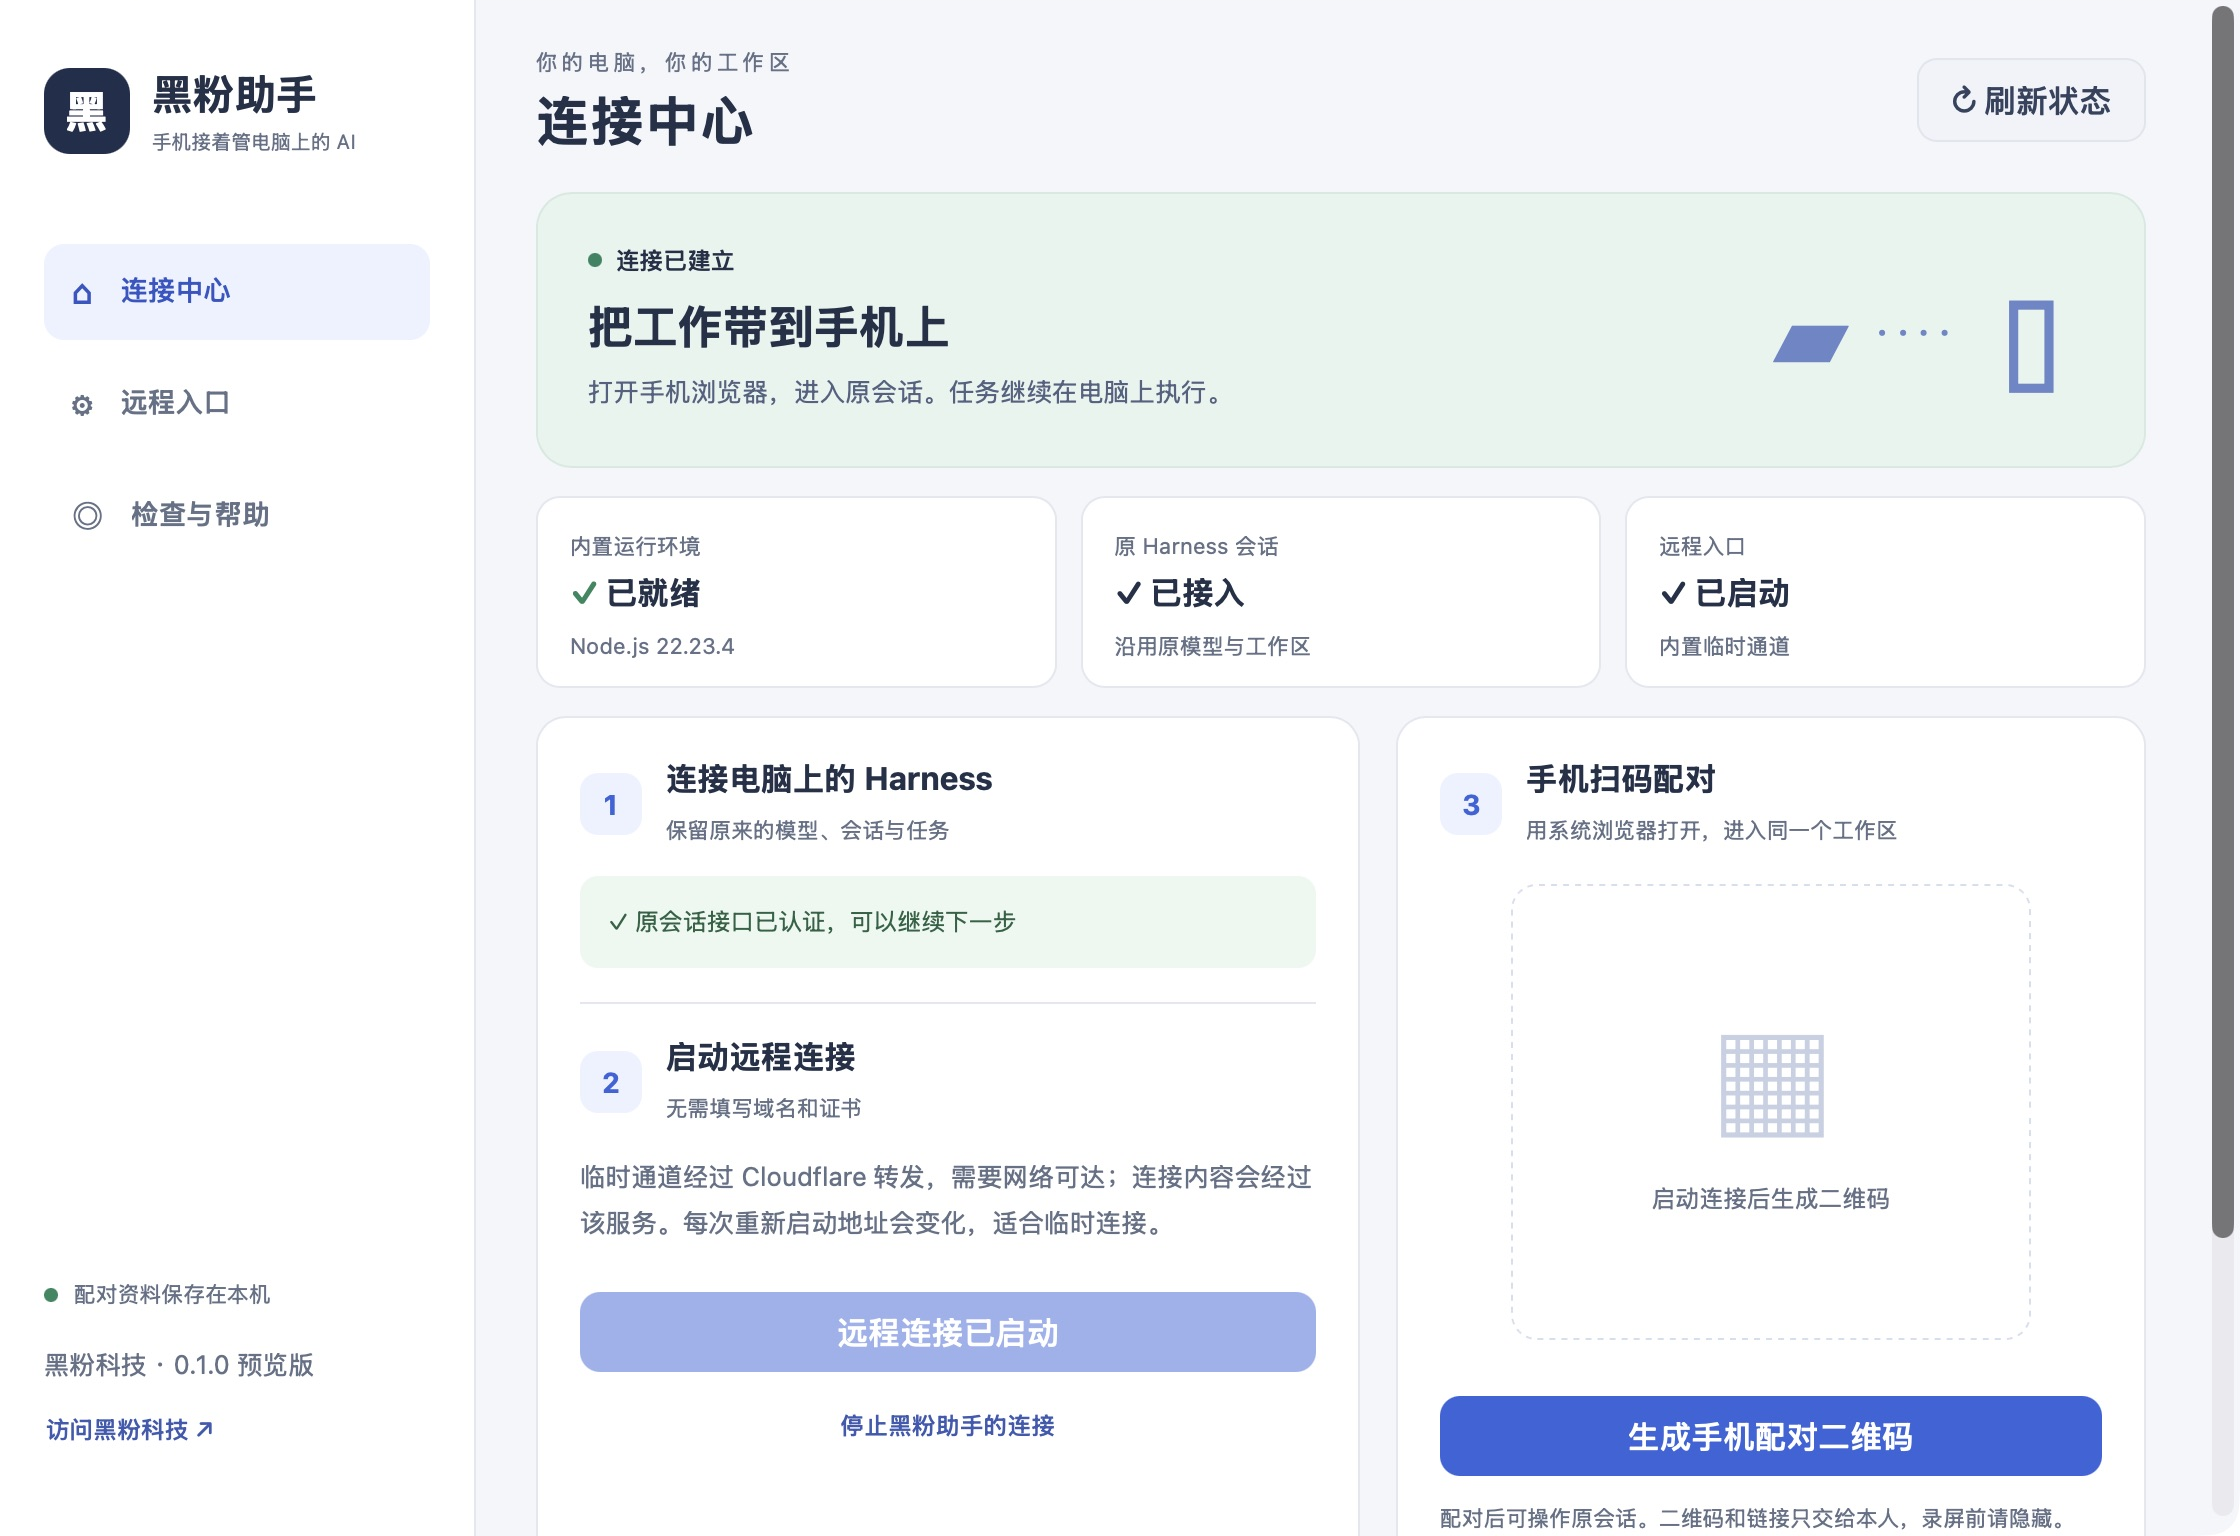
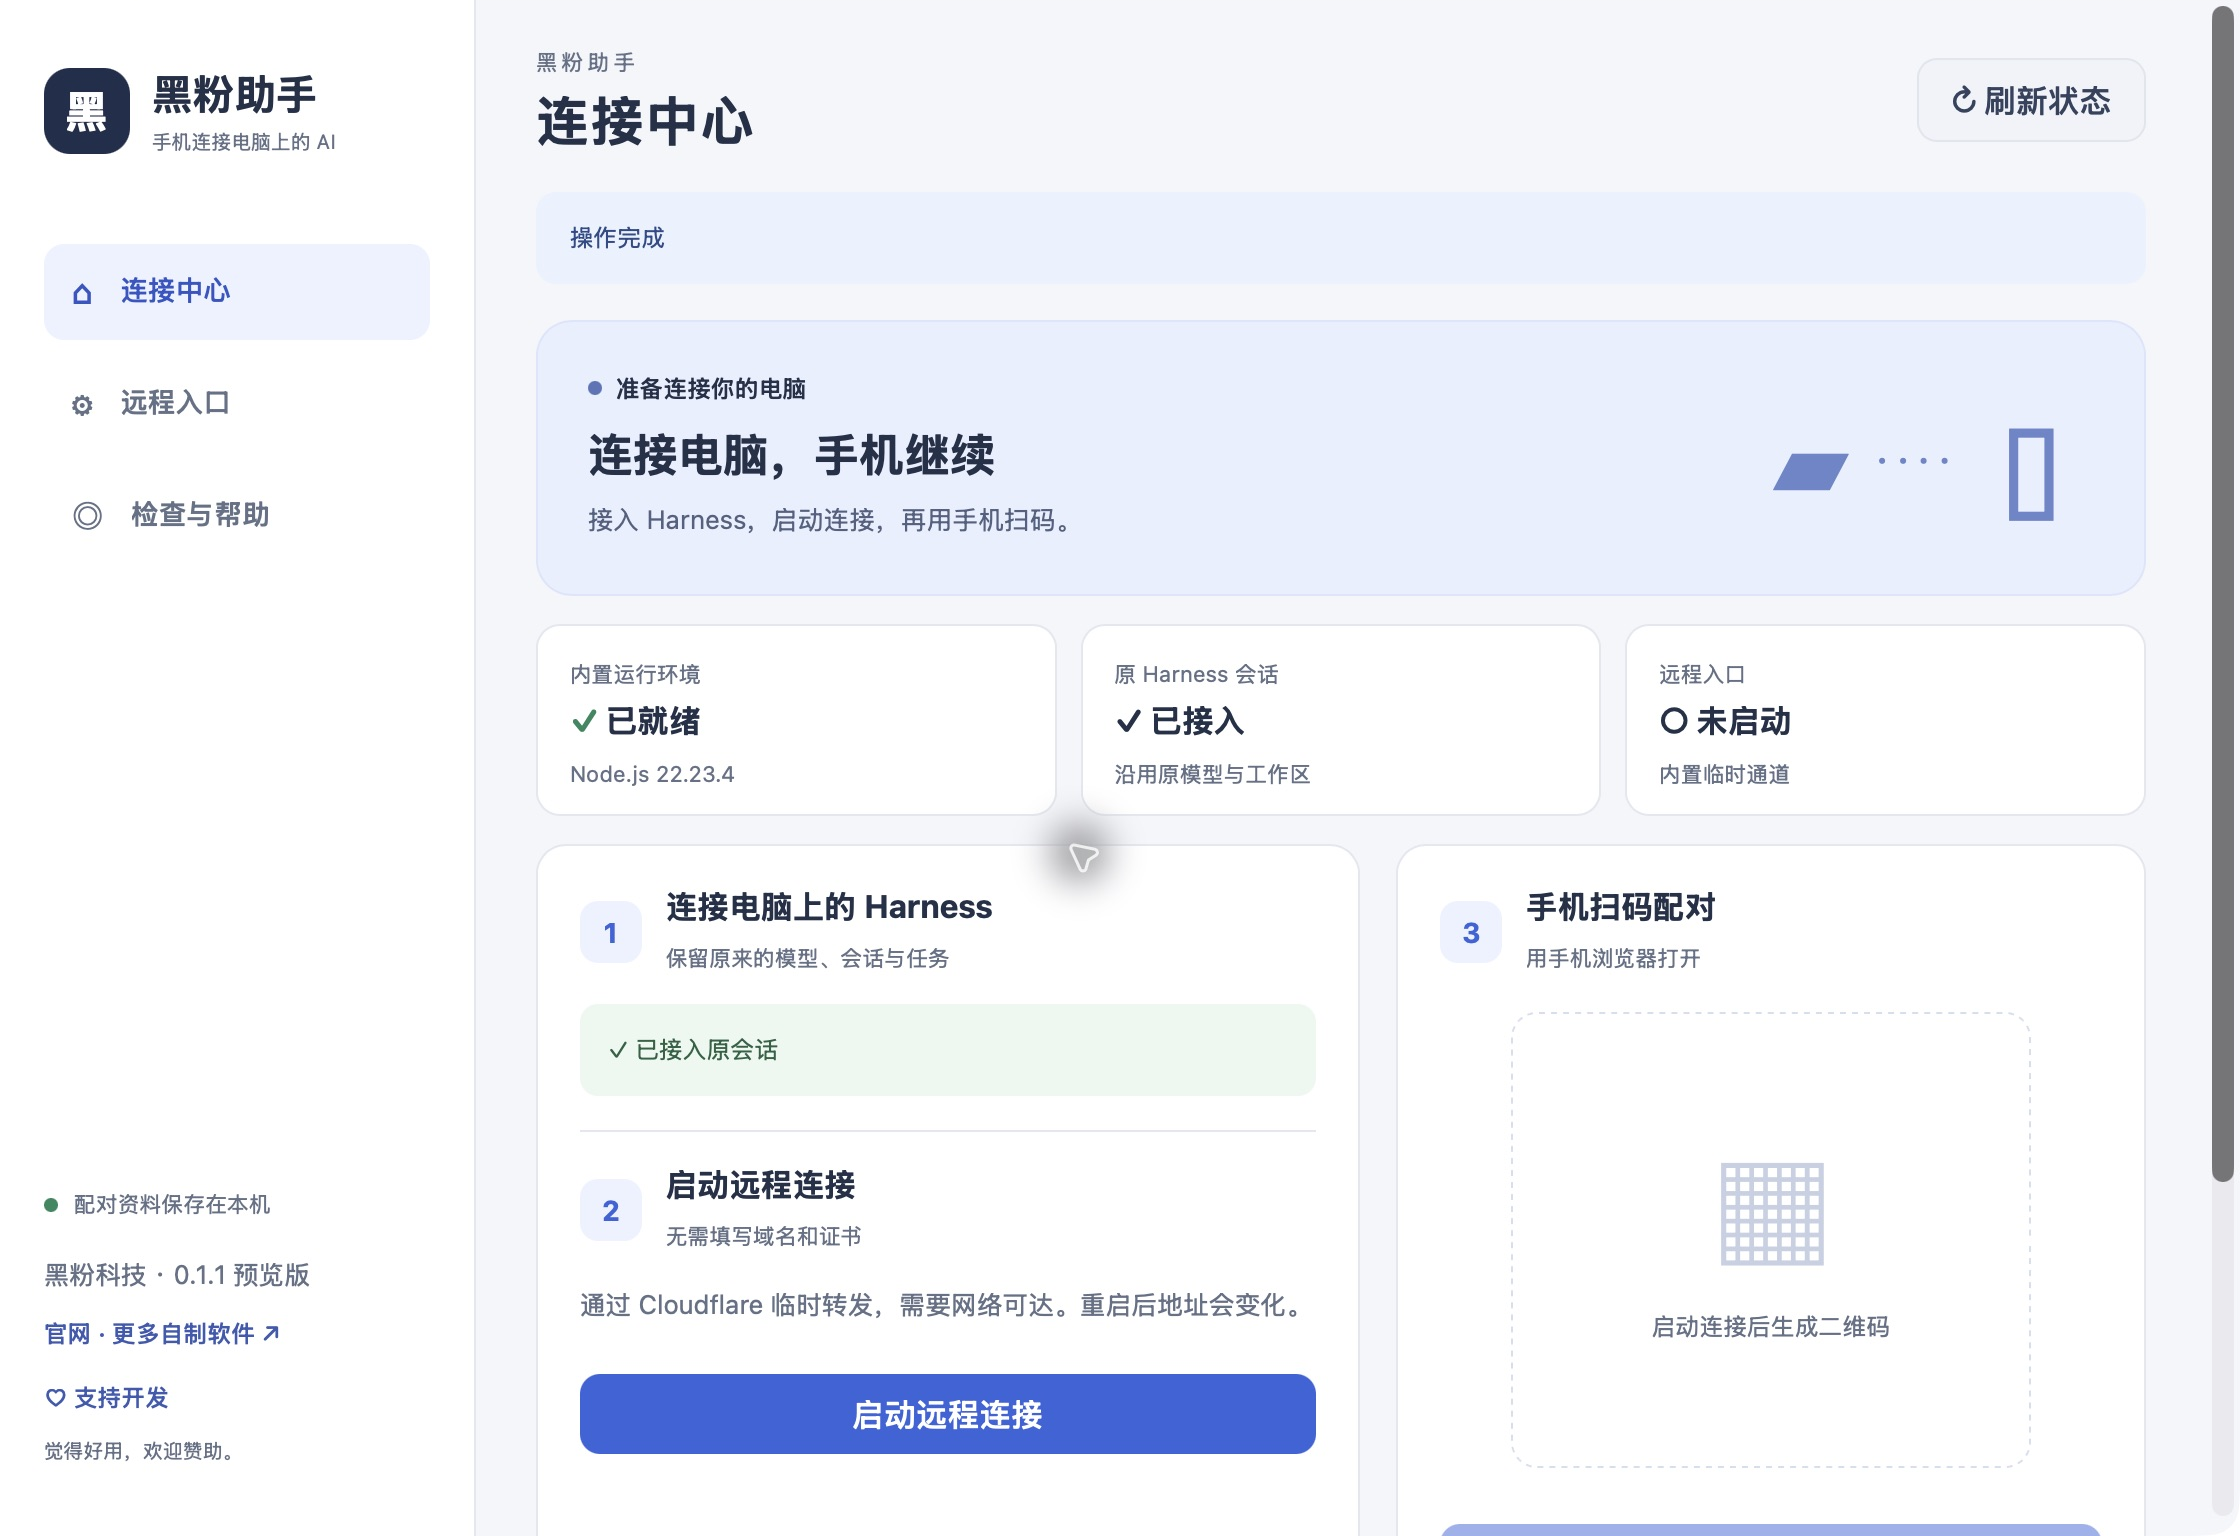
更新0.1.1界面、匿名统计说明和使用截图

diff --git a/README.md b/README.md
@@ -1,16 +1,16 @@
 # 黑粉助手
 
-**手机接着管电脑上的 AI。** 电脑运行 DeepSeek Harness 原任务，手机浏览器进入同一工作区，查看会话并继续发送要求。
+**手机连接电脑上的 AI。** 电脑运行 DeepSeek Harness 原任务，手机浏览器进入同一工作区，查看会话并继续发送要求。
 
-黑粉科技制作的独立辅助工具，当前为 **0.1.0 预览版**。官方 Harness 是被连接的目标软件，需要先在电脑上安装、配置好模型并能正常使用。黑粉助手内置自己的运行依赖，无需另外安装 Node.js、通道程序或二维码组件。
+黑粉科技制作的独立辅助工具，当前为 **0.1.1 预览版**。官方 Harness 是被连接的目标软件，需要先在电脑上安装、配置好模型并能正常使用。黑粉助手内置自己的运行依赖，无需另外安装 Node.js、通道程序或二维码组件。
 
 ## 近期新增与改进
 
-- 中文桌面连接中心：连接原会话、查看网关状态与实际公网回读。
-- 内置运行依赖：安装包携带 Node.js、配对网关和远程通道组件。
-- 临时远程入口：无需填写域名和证书；也支持已有代理与固定 HTTPS。
-- 手机二维码配对：十分钟、一次兑换；可复制私人链接及撤销全部手机登录。
-- 后台与更新管理：菜单栏或托盘、登录启动偏好、带数字签名校验的更新入口。
+- 精简连接界面：接入会话、启动连接、手机扫码，状态清楚。
+- 修复断开确认：取消、确认与退出键可用，更新弹窗文案独立。
+- 保留入口设置：重新打开页面可看到已保存的地址，证书可继续沿用。
+- 匿名使用统计：按日去重，支持在检查页关闭，不采集会话和配对资料。
+- 官网与赞助入口：侧栏查看更多自制软件，自愿扫码支持开发。
 
 ## 下载与安装
 
@@ -18,24 +18,26 @@
 
 | 系统 | 安装方式 | 下载 |
 |---|---|---|
-| macOS Apple Silicon，13及以上 | 下载DMG，把黑粉助手拖入应用程序 | [Mac安装包](https://github.com/HackerChi-Hub/hyphen-assistant-releases/releases/latest/download/HyphenAssistant-0.1.0-macos-arm64.dmg) |
-| Windows x64 | 下载EXE安装程序，按向导安装；包含离线WebView2安装器 | [Windows安装程序](https://github.com/HackerChi-Hub/hyphen-assistant-releases/releases/latest/download/HyphenAssistant-0.1.0-windows-x64-setup.exe) |
-| Linux x64 | 使用AppImage或适合发行版的deb/rpm包，仍需兼容的桌面系统；AppImage首次需在文件属性中允许作为程序执行 | [AppImage](https://github.com/HackerChi-Hub/hyphen-assistant-releases/releases/latest/download/HyphenAssistant-0.1.0-linux-x64.AppImage) · [deb](https://github.com/HackerChi-Hub/hyphen-assistant-releases/releases/latest/download/HyphenAssistant-0.1.0-linux-x64.deb) · [rpm](https://github.com/HackerChi-Hub/hyphen-assistant-releases/releases/latest/download/HyphenAssistant-0.1.0-linux-x64.rpm) |
+| macOS Apple Silicon，13及以上 | 下载DMG，把黑粉助手拖入应用程序 | [Mac安装包](https://github.com/HackerChi-Hub/hyphen-assistant-releases/releases/latest/download/HyphenAssistant-0.1.1-macos-arm64.dmg) |
+| Windows x64 | 下载EXE安装程序，按向导安装；包含离线WebView2安装器 | [Windows安装程序](https://github.com/HackerChi-Hub/hyphen-assistant-releases/releases/latest/download/HyphenAssistant-0.1.1-windows-x64-setup.exe) |
+| Linux x64 | 使用AppImage或适合发行版的deb/rpm包，仍需兼容的桌面系统；AppImage首次需在文件属性中允许作为程序执行 | [AppImage](https://github.com/HackerChi-Hub/hyphen-assistant-releases/releases/latest/download/HyphenAssistant-0.1.1-linux-x64.AppImage) · [deb](https://github.com/HackerChi-Hub/hyphen-assistant-releases/releases/latest/download/HyphenAssistant-0.1.1-linux-x64.deb) · [rpm](https://github.com/HackerChi-Hub/hyphen-assistant-releases/releases/latest/download/HyphenAssistant-0.1.1-linux-x64.rpm) |
 
 安装件尚未完成 Apple 公证或 Windows 商业代码签名。Mac首次打开受阻时，在系统设置的“隐私与安全性”中核实来源后选择仍要打开；Windows出现SmartScreen提示时核实发行来源，再按“更多信息”继续。更新包的数字签名用于校验更新完整性，不等同于操作系统发行证书。
 
 ## 实际界面
 
-以下为0.1.0预览版Mac实际安装界面，未展示私人配对码。
+以下为0.1.1预览版Mac实际安装界面，未展示私人配对码。
 
 ![黑粉助手连接中心](screenshots/connection.png)
 
 ![黑粉助手实际连接检查](screenshots/diagnosis.png)
 
+![匿名统计设置](screenshots/privacy.png)
+
 ## 第一次使用
 
 1. 先打开官方 DeepSeek Harness，确认电脑能正常收到模型回复。
-2. 打开黑粉助手。已有手机连接器时选择连接已有配置；新用户选择当前 Harness 配置，点击挂载连接器。
+2. 打开黑粉助手。已有手机连接器时选择“接入已有 Harness”；新用户选择当前 Harness 配置，点击挂载连接器。
 3. 等待 Harness 加载连接器。若未自动加载，等原任务空闲后重新打开 Harness，不中断正在进行的任务。
 4. 点击启动远程连接，等待入口就绪。
 5. 生成二维码，用本人手机系统浏览器扫码并确认配对。
@@ -50,6 +52,8 @@
 ## 隐私与管理
 
 二维码、链接和配对资料仅交给本人设备。配对后可操作原会话，手机浏览器应妥善保管。关闭窗口收起到菜单栏或托盘，退出界面保留后台；停止本应用连接不停止原任务。撤销登录会要求手机重新配对。
+
+匿名统计仅包含不可逆设备哈希、应用版本、系统和架构，用于统计活跃设备与版本分布；默认开启，可在“检查与帮助”关闭。不采集会话、指令、文件、密钥、配对资料或用户名，统计数据库不保存 IP。设备哈希在本机按产品隔离后生成。同一设备同一 UTC 日去重，升级当天可更新版本。
 
 源码仓库私有；本仓库发布使用说明、真实截图、安装件与更新元数据。安装件不包含开发者证书私钥、原会话、模型密钥或私人部署配置。
 
@@ -66,8 +70,8 @@
 ## 已核实的验收范围
 
 - Mac：从DMG安装，原生界面、内置后端、真实Harness认证、临时通道HTTPS配对、原网页、原会话目录和实时握手通过。
-- Windows：原生23项检查、中文EXE安装、安装后内置后端及应用启动检查通过。
-- Linux：原生23项检查、AppImage解包后的内置后端及虚拟桌面启动检查通过；同时提供deb和rpm。
+- Windows：原生27项检查、中文EXE安装、安装后内置后端及应用启动检查通过。
+- Linux：原生27项检查、AppImage解包后的内置后端及虚拟桌面启动检查通过；同时提供deb和rpm。
 - 三个平台的安装件都有SHA-256；更新包另有独立数字签名。Mac和Linux AppImage支持对应的签名更新包，deb/rpm使用新版安装包更新。
 - 真实手机切网、真实任务工具批准和长任务恢复仍待专项验收；隔离启动检查不等同于真机持续使用。
 
